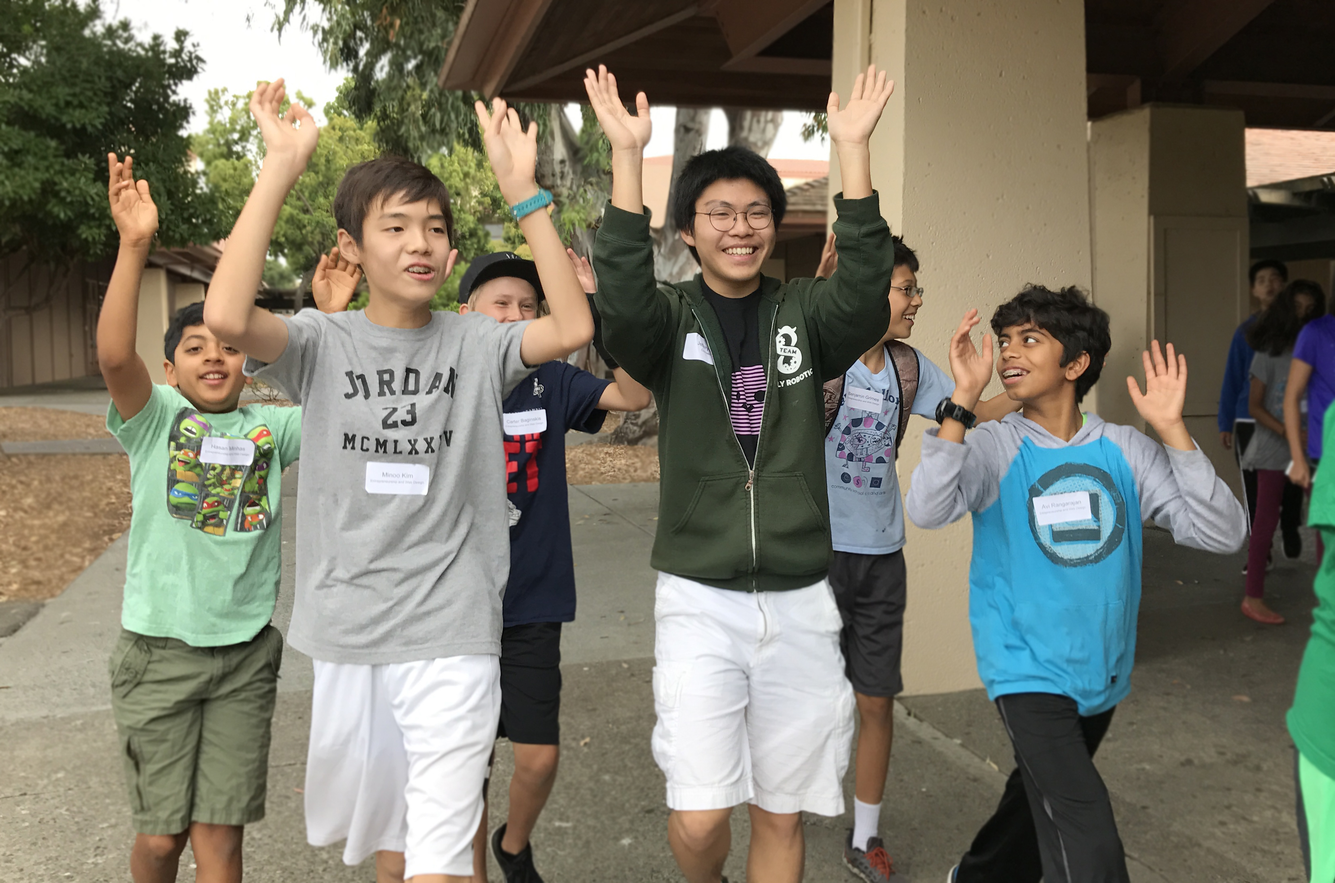
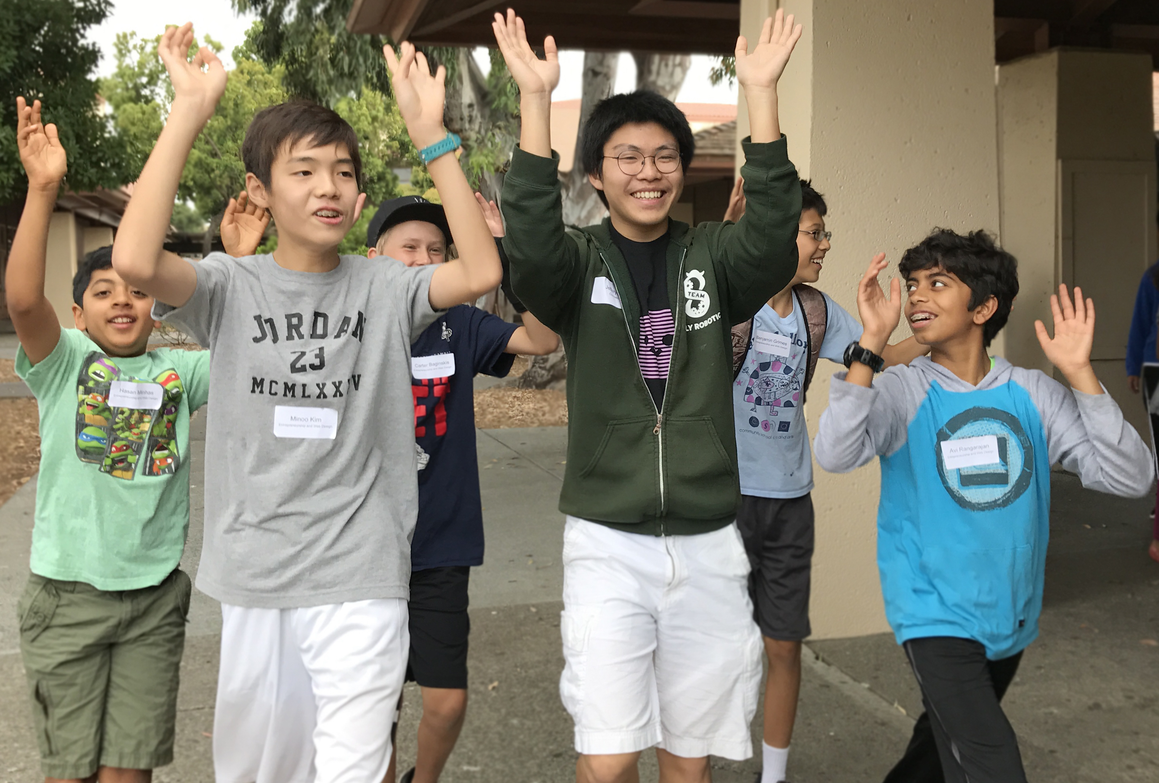
adjusted photos

diff --git a/summercamp.html b/summercamp.html
@@ -100,6 +100,9 @@ permalink: /summercamp/
                 <br><hr class="special-hr"><br><br>
             </div>
         </div>
+
+
+
         <div class="row less-marg">
             
             <div class="col-md-4">
@@ -112,16 +115,15 @@ permalink: /summercamp/
                 <p class="summercamp-paragraph">{{site.data.summercamp.AboutTheCamp2.paragraph2}}</p>
                 
             </div>
-           </div> 
+        </div> 
            
         <div class="col-md-12">
                 <hr class="special-hr">
-                <br>
-            <br>
+                <br><br>
         </div>    
         <div class="row less-marg">
             <div class="col-md-4">
-                <br>
+                
                 <img class="img-responsive" src="{{site.data.summercamp.AboutTheCamp1.image4}}">
 
             </div>
